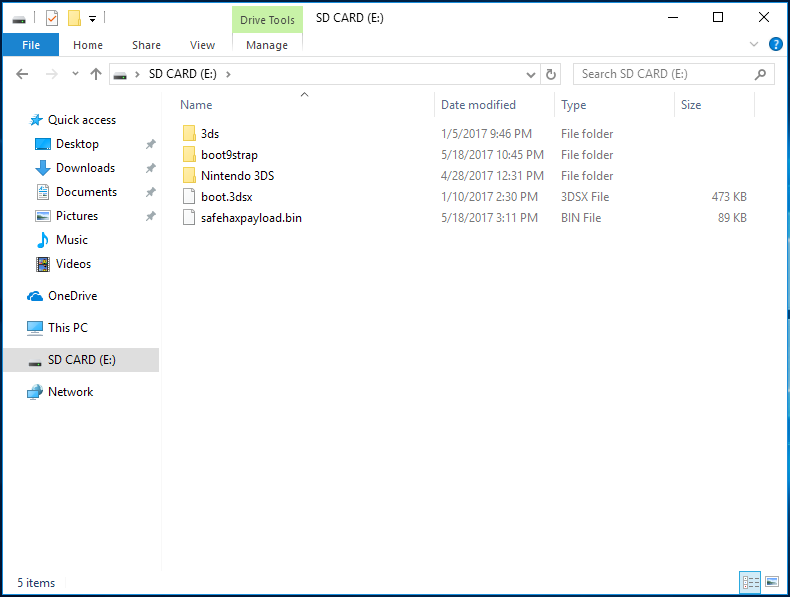
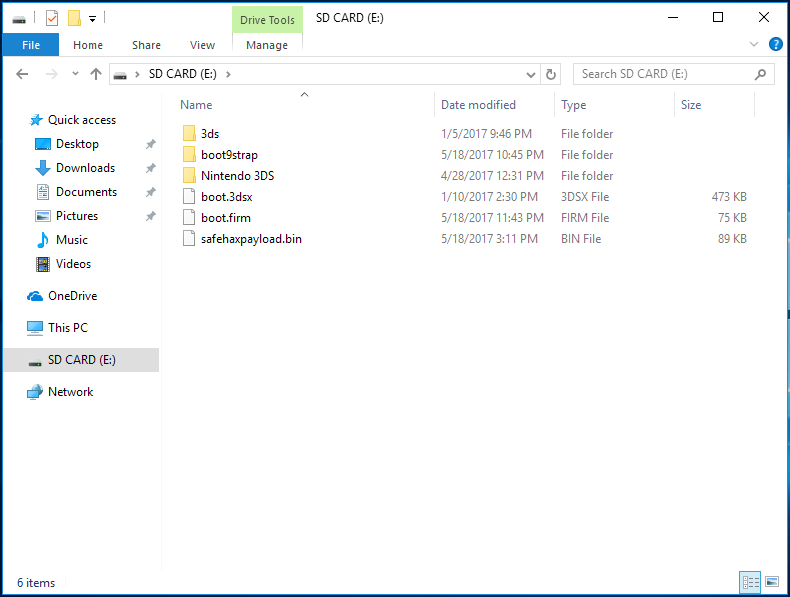
update tag error and screenshot

Changed region(s): [[0.5468, 0.3317, 0.7899, 0.4221], [0.243, 0.3618, 0.3949, 0.4221], [0.9114, 0.392, 0.9418, 0.4221]]

diff --git a/_pages/troubleshooting.md b/_pages/troubleshooting.md
@@ -127,7 +127,7 @@ title: "问题排查"
    1. 如果进入安全模式，*仅当你有最新固件版本进入HBL的方法，并且能进行降级的情况下*，才升级你的3DS，并再次尝试降级。
 1. 你的3DS可能变砖了。请在[GitHub Issues](https://github.com/majia67/3DS-ARM9LoaderHax-Guide/issues)中提问，或者参考[FAQ](faq#faq_support)页面获取帮助。
 
-## <a name="ts_sys_a9lh" />安装完arm9loaderhax后启动到SysNAND黑屏
+## <a name="ts_sys_b9s" />安装完arm9loaderhax后启动到SysNAND黑屏
 
 1. 确保你有一个正常工作的payload
    1. 检查你的SD卡根目录有`boot.firm`文件。
